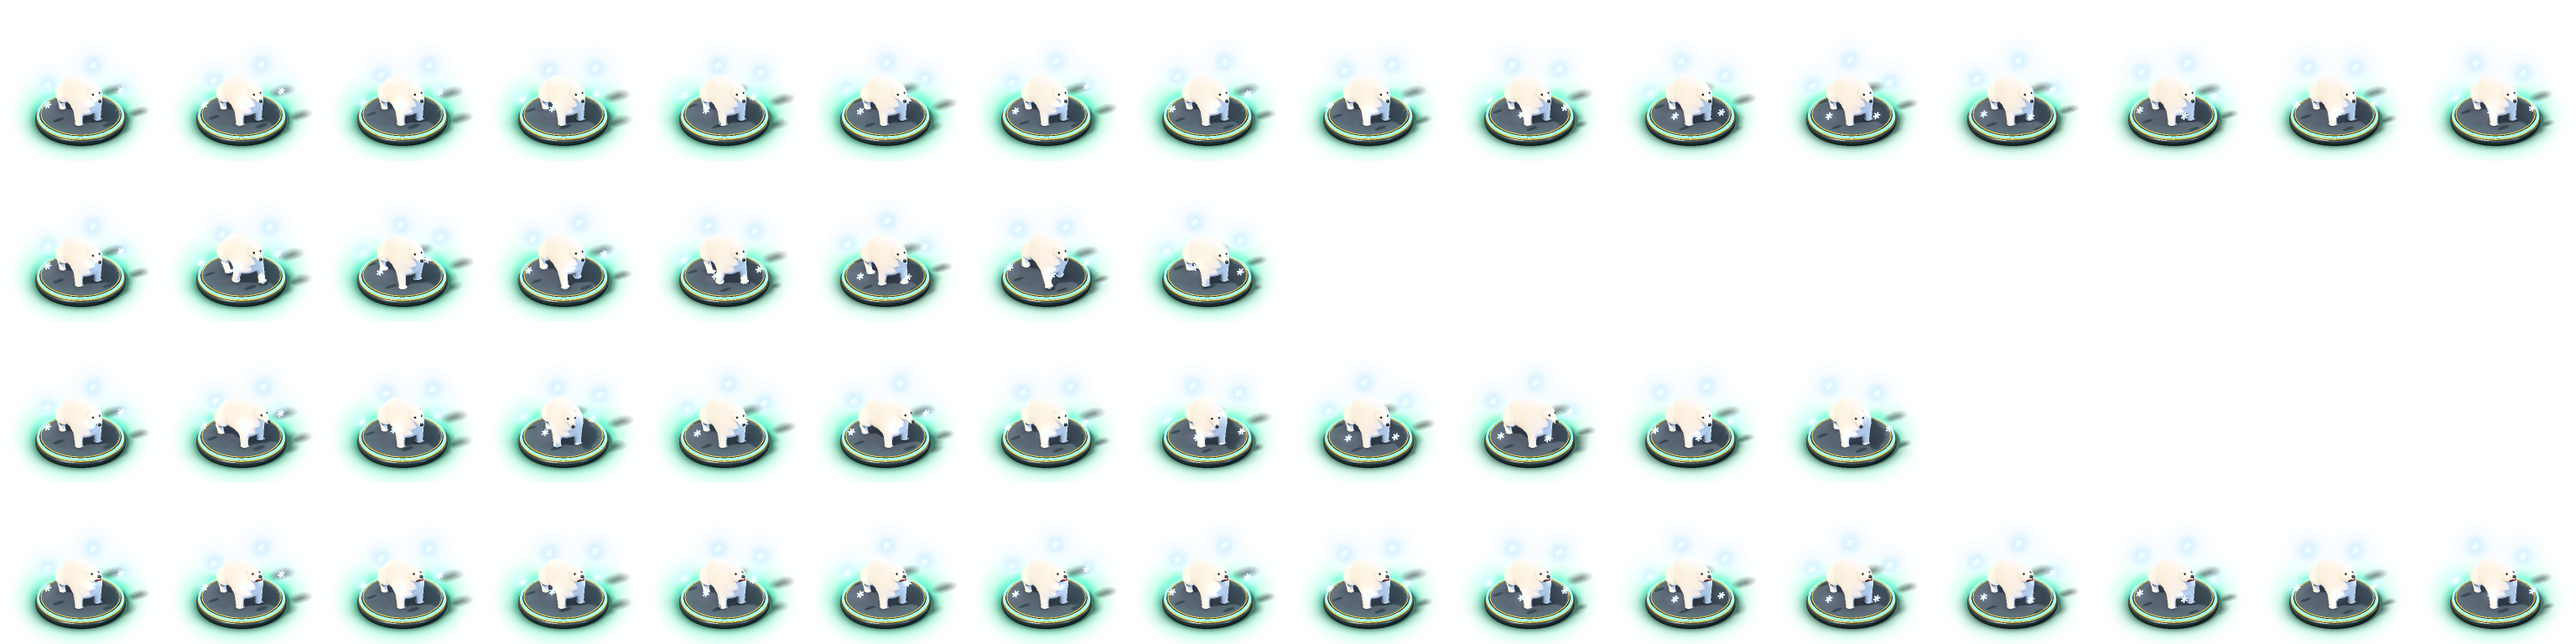
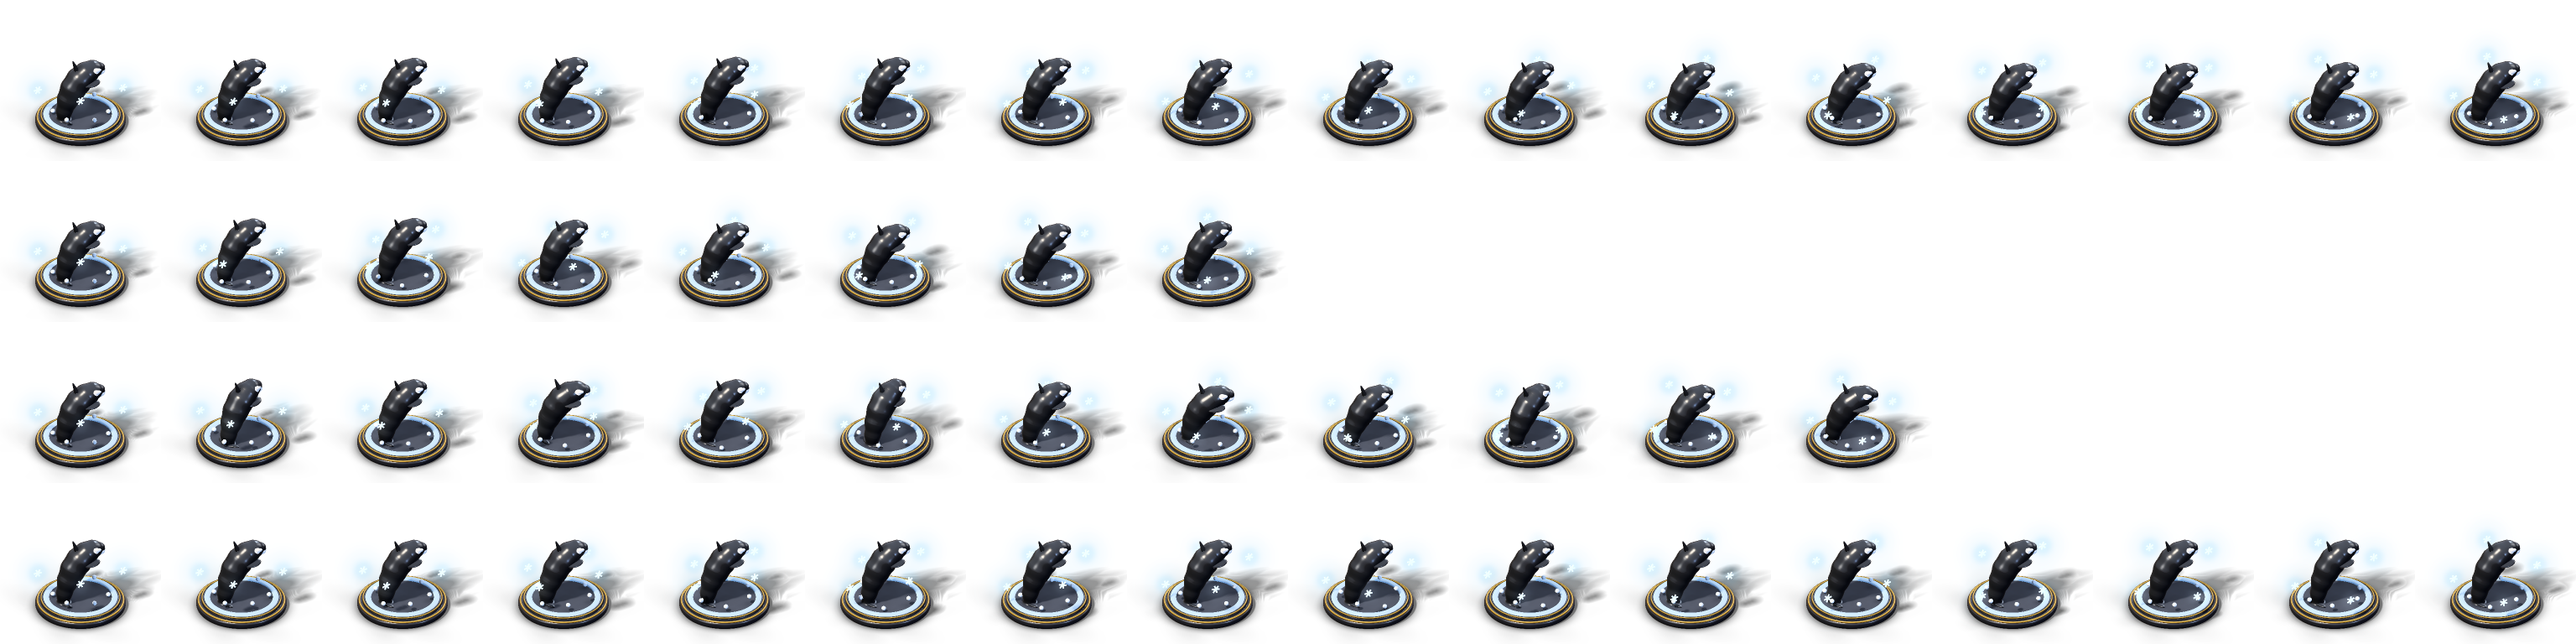
app: the figurines grow with the strength of their AI on the board (Elo 600: 0.85, 2250: 1.22); Themes: the sets of pieces as a grid of chips, the panel shows each player's pieces on the chosen board (Change only for the Robots set), no export button; Banquise: the polar bear before the orca (orca f

diff --git a/doc/src/yolah_app/05_app_looks.html b/doc/src/yolah_app/05_app_looks.html
@@ -196,7 +196,7 @@ int px = int(std::floor((a.in.mouse.x - canvas.x) / cell)), py = int(std::floor(
 <tr><td><code>heroic.py</code></td><td>an adult rig (the head about a sixth of the height, long legs, a muscled torso, jointed arms; the head above the chest, pushed forward by a hunch), curves (<code>bezier</code>, <code>chain</code>), membrane wings, scales; the poses and the weapon frames come from <code>legends.py</code></td></tr>
 <tr><td><code>epic.py</code></td><td>the Légendes cast, one character per AI: goblin thief, orc scout, elf ranger, orc warrior, hill troll, elf knight, orc warlord, war troll, elf archmage, ancient dragon</td></tr>
 <tr><td><code>shonen.py</code>, <code>manga.py</code>, <code>manga_board.py</code></td><td>the Manga set: one character per AI in adult proportions, from a lone wolf to a celestial dragon (Ōkami, Shinobi, Kitsune, Samouraï, Oni, Onmyōji, Raijū, Hōō, Kaigen, Tenryū), more and more spectacular (gems, aura, lightning, floating rocks, a pillar of light), rendered in the toon mode; the board: a sky sanctuary (a marble platform over a sea of clouds, floating islands with waterfalls, a ringed planet), marble and lapis squares, ink impacts</td></tr>
-<tr><td><code>arctic.py</code>, <code>ice_board.py</code></td><td>the Banquise set: one creature per AI, from the seal to the woolly mammoth (penguin, arctic fox, snowy owl, walrus, wolf, a polar explorer, an orca leaping from the ice, a polar bear), frost snowflakes turning around the stronger ones, an aurora ring on the base of the two strongest; the board: an ice floe in the polar night (an aurora, icebergs, floes on the black sea), packed snow and blue glacier ice, holes of black water with floating chips, a frame of ice blocks</td></tr>
+<tr><td><code>arctic.py</code>, <code>ice_board.py</code></td><td>the Banquise set: one creature per AI, from the seal to the woolly mammoth (penguin, arctic fox, snowy owl, walrus, wolf, a polar explorer, a polar bear, an orca leaping from the ice), frost snowflakes turning around the stronger ones, an aurora ring on the base of the two strongest; the board: an ice floe in the polar night (an aurora, icebergs, floes on the black sea), packed snow and blue glacier ice, holes of black water with floating chips, a frame of ice blocks</td></tr>
 <tr><td><code>origami.py</code>, <code>paper_board.py</code></td><td>the Origami set: one folded paper figure per AI, from the paper boat to the dragon (frog, rabbit, fox, butterfly, crane, stag, peacock, lion), every piece a convex polyhedron (<code>sd_hull</code>, flat faces, sharp edges, bounded by a sphere so that shadow rays do not stop short), plain paper, then printed, then gold foil; the board: a cut-paper landscape (layers casting their shadows), cream washi and indigo seigaiha paper, torn holes, a vermilion frame with gold lines</td></tr>
 <tr><td><code>dinos.py</code>, <code>dino_board.py</code></td><td>the Dinosaures set: the growth of a tyrannosaur, one stage per AI (egg, hatching, newborn, chick in down, feathered juvenile, striped adolescent, green young adult hunting, brown adult, grey scarred old male on bones, near-black tyrant king roaring over cracks of lava), built on one theropod rig (<code>theropod</code>: size, head size, legs, down, teeth, jaw, head lowered) seen in three-quarter profile so that the tail goes sideways; the board: a valley at the foot of an erupting volcano, giant ferns, moss and basalt, lava pits, a stone frame with fossil bones</td></tr>
 <tr><td><code>anatomy.py</code>, <code>lab_board.py</code></td><td>the Laboratoire set: a body rebuilt layer by layer, one stage per AI (nerves, + blood vessels and a beating heart, + skeleton, + organs, the muscles, the skin spreading in patches, the finished body, the awakening with veins of light, levitation, a being of white and gold light with a halo; an original design), every layer built on the same joints (<code>joints</code>) so that they fit, a scanner ring on the base of the seven first; the board: a lab in a nuclear plant (the reactor pool in its blue Cherenkov light, a catwalk, screens, hazard stripes), white lab tiles and steel grating, containment wells, a steel frame with hazard stripes</td></tr>

diff --git a/app/yolah_app.cpp b/app/yolah_app.cpp
@@ -1639,6 +1639,7 @@ struct SpriteDef {
     // and its white unit): the id, and the sprite once linked (link_sprites).
     std::string white_id;
     const SpriteDef* white_alt = nullptr;
+    float grow = 1;          // a figurine's size on the board: the stronger its AI, the more imposing (set_growth)
 };
 
 // A set of pieces (assets/sprites/sets.json): what the pieces look like when
@@ -2402,6 +2403,7 @@ void draw_piece(const SpriteDef& sp, int side, V2 c, float r, float lift = 0, do
             if (Art* w = find_art(art->white)) drawn = w;
         float size = 2.5f * r * art->box;      // r = 0.4 square
         float ay = art->ay;
+        if (state_t >= 0) size *= sp.grow;     // on the board, the weak small, the strong imposing
         if (state_t < 0) {   // not on a board (panels, lists, the picker): the whole figurine around c
             size *= 0.72f;
             ay = 0.6f;
@@ -4010,6 +4012,21 @@ struct App {
         for (auto& ps : piece_sets)
             if (ps.id == id) return &ps;
         return nullptr;
+    }
+    // The figurines grow with the strength of their AI (Elo 600 -> 0.85, 2250 -> 1.22):
+    // every cast's figurine and each AI's own sprite. The human keeps 1.
+    void set_growth() {
+        auto g = [](int elo) { return 0.85f + 0.37f * std::clamp((elo - 600) / 1650.0f, 0.0f, 1.0f); };
+        for (auto& ai : roster) {
+            for (auto& ps : piece_sets) {
+                auto it = ps.cast.find(ai.id);
+                if (it != ps.cast.end())
+                    for (auto& sp : sprites)
+                        if (sp.id == it->second) sp.grow = g(ai.elo);
+            }
+            for (auto& sp : sprites)
+                if (sp.id == ai.sprite) sp.grow = g(ai.elo);
+        }
     }
     // The set in use on a board: the one of the settings, or the board's own
     // ("Selon le plateau"), the classic stones when the board has none.
@@ -6385,43 +6402,56 @@ void scene_themes(App& a) {
     // The players and their sprites.
     Box gal{area.right() + 50 * s, 140 * s, a.w - area.right() - 110 * s, a.h - 180 * s};
     a.ui.panel(gal);
-    // The set of pieces: the board's own, or one for every board.
+    // The set of pieces: the board's own, or one for every board (a grid of
+    // chips: a segmented bar is too narrow for all of them).
     a.text.draw(Font::Black, 22 * s, "Jeu de pi\xC3\xA8" "ces", {gal.x + 22 * s, gal.y + 18 * s}, pal::text);
+    float y = gal.y + 56 * s;
     {
         std::vector<std::string> opts = {"Selon le plateau"}, ids = {"auto"};
         for (auto& ps : a.piece_sets) { opts.push_back(ps.name); ids.push_back(ps.id); }
-        int cur = 0;
-        for (size_t i = 0; i < ids.size(); i++)
-            if (ids[i] == a.settings.piece_set) cur = int(i);
-        int sel = a.ui.segmented("pset", {gal.x + 22 * s, gal.y + 54 * s, gal.w - 44 * s, 40 * s}, opts, cur, 14);
-        if (sel != cur) a.settings.piece_set = ids[size_t(sel)];
+        const int pc = 4;
+        const float cw = (gal.w - 44 * s - (pc - 1) * 8 * s) / pc, ch = 34 * s;
+        for (size_t i = 0; i < ids.size(); i++) {
+            Box cb{gal.x + 22 * s + (i % pc) * (cw + 8 * s), y + (i / pc) * (ch + 8 * s), cw, ch};
+            bool on = ids[i] == a.settings.piece_set;
+            if (a.ui.button("pset" + ids[i], cb, opts[i], on ? Style::Primary : Style::Ghost, true, 14)) a.settings.piece_set = ids[i];
+        }
+        y += ((ids.size() + pc - 1) / pc) * (ch + 8 * s) + 6 * s;
         const PieceSet& act = a.active_set(a.theme());
         std::string why = a.settings.piece_set == "auto"
-            ? "Chaque plateau prend son jeu : ici \xC2\xAB " + act.name + " \xC2\xBB (pions classiques pour les plateaux sans jeu propre)."
+            ? "Chaque plateau prend son jeu : ici \xC2\xAB " + act.name + " \xC2\xBB."
             : "Ce jeu sert sur tous les plateaux.";
         if (!act.description.empty()) why += " " + act.description;
-        a.text.paragraph(Font::Regular, 13 * s, why, {gal.x + 22 * s, gal.y + 102 * s, gal.w - 44 * s, 40 * s}, pal::dim);
+        y += a.text.paragraph(Font::Regular, 14 * s, why, {gal.x + 22 * s, y, gal.w - 44 * s, 90 * s}, pal::dim) + 14 * s;
     }
-    a.text.draw(Font::Black, 20 * s, "Sprites des joueurs", {gal.x + 22 * s, gal.y + 150 * s}, pal::text);
-    a.text.paragraph(Font::Regular, 13 * s, strf("Avec le jeu \xC2\xAB Robots \xC2\xBB, chaque joueur garde son sprite. Cliquez sur un joueur pour en choisir un parmi les %zu de la biblioth\xC3\xA8que (un jeu entier aussi, dans \xC2\xAB Jeux de pi\xC3\xA8" "ces \xC2\xBB).", a.sprites.size()),
-                     {gal.x + 22 * s, gal.y + 180 * s, gal.w - 44 * s, 40 * s}, pal::dim);
+    // The pieces of each player on the chosen board, as they will be played.
+    const PieceSet& act = a.active_set(a.theme());
+    a.text.draw(Font::Black, 20 * s, "Les pi\xC3\xA8" "ces sur ce plateau", {gal.x + 22 * s, y}, pal::text);
+    y += 34 * s;
+    if (act.players) {
+        a.text.paragraph(Font::Regular, 13 * s, "Avec ce jeu, chaque joueur garde son sprite : cliquez sur un joueur pour en choisir un autre.",
+                         {gal.x + 22 * s, y, gal.w - 44 * s, 40 * s}, pal::dim);
+        y += 26 * s;
+    }
     std::vector<std::pair<std::string, std::string>> players = {{"human", "Joueur humain"}};
     for (auto& ai : a.roster) players.push_back({ai.id, ai.name});
-    float top = gal.y + 232 * s, rh = std::min(60.0f * s, (gal.h - 320 * s) / players.size());
+    float rh = std::min(64.0f * s, (gal.bottom() - 14 * s - y) / players.size());
     for (size_t i = 0; i < players.size(); i++) {
         const auto& [id, name] = players[i];
-        const SpriteDef& sp = a.player_sprite(id);
-        Box r{gal.x + 12 * s, top + i * rh, gal.w - 24 * s, rh - 4 * s};
-        bool h = a.ui.hover(r);
+        auto ub = a.board_units(a.theme(), BLACK, id), uw = a.board_units(a.theme(), WHITE, id);
+        Box r{gal.x + 12 * s, y + i * rh, gal.w - 24 * s, rh - 4 * s};
+        bool h = act.players && a.ui.hover(r);
         if (h) a.ui.hovering = true;
         float k = a.ui.anim("pl" + id, h);
         draw::round_box(r, 10 * s, with_alpha(hex(0xffffff), 0.02f + 0.07f * k));
-        float pr = rh * 0.36f;
-        draw_piece(sp, BLACK, {r.x + 14 * s + pr, r.center().y}, pr, 0.2f * k, a.time, 1, id == "human");
-        draw_piece(sp, WHITE, {r.x + 22 * s + 3 * pr, r.center().y}, pr, 0.2f * k, a.time, 1, id == "human");
+        float pr = rh * 0.40f;
+        draw_piece(*ub.front(), BLACK, {r.x + 14 * s + pr, r.center().y}, pr, 0.2f * k, a.time, 1, id == "human");
+        draw_piece(*uw.front(), WHITE, {r.x + 22 * s + 3 * pr, r.center().y}, pr, 0.2f * k, a.time, 1, id == "human");
         float tx = r.x + 40 * s + 4 * pr;
         a.text.draw(Font::Bold, 17 * s, name, {tx, r.center().y - 20 * s}, pal::text);
-        a.text.draw(Font::Regular, 13 * s, "sprite : " + sp.name, {tx, r.center().y + 2 * s}, pal::dim);
+        a.text.draw(Font::Regular, 13 * s, ub.front()->name, {tx, r.center().y + 2 * s}, pal::dim);
+        if (!act.players) continue;
+        const SpriteDef& sp = a.player_sprite(id);
         a.text.draw(Font::Bold, 15 * s, "Changer \xE2\x86\x92", {r.right() - 12 * s, r.center().y - 9 * s}, mix(pal::faint, a.theme().accent, k), Align::Right);
         if (h && a.in.released) {
             std::string pid = id, pname = name;
@@ -6431,8 +6461,6 @@ void scene_themes(App& a) {
             });
         }
     }
-    if (a.ui.button("export", {gal.x + 22 * s, gal.bottom() - 74 * s, gal.w - 44 * s, 52 * s}, "Exporter tous les sprites en PNG", Style::Primary))
-        a.notify(export_sprites(a));
     a.ui.blocked = false;
     if (picking) sprite_picker(a);
 }
@@ -8648,6 +8676,7 @@ SDL_AppResult SDL_AppInit(void** appstate, int argc, char* argv[]) {
     load_all_arts();
     register_art_sprites(a->sprites);
     a->roster = load_roster(g_paths.assets / "ai_roster.json");
+    a->set_growth();
     a->courses.load(g_paths.assets / "courses" / "ai_courses.json");
     {
         json j = load_json(g_paths.assets / "sprites" / "assignments.json");

diff --git a/app/tools/sprites/arctic.py b/app/tools/sprites/arctic.py
@@ -354,7 +354,7 @@ SCALE = {"random": 1.3, "beginner": 1.2, "monte_carlo": 1.3, "mcts": 1.2, "basic
          "features": 1.25, "resnet": 1.15, "dev": 1.05, "alphazero": 1.05}
 CAST = {"random": ("Phoque", seal), "beginner": ("Manchot empereur", penguin), "monte_carlo": ("Renard polaire", arctic_fox),
         "mcts": ("Harfang des neiges", snowy_owl), "basic_minmax": ("Morse", walrus), "nnue193": ("Loup arctique", arctic_wolf),
-        "features": ("Exploratrice polaire", explorer), "resnet": ("Orque", orca), "dev": ("Ours blanc", polar_bear),
+        "features": ("Exploratrice polaire", explorer), "resnet": ("Ours blanc", polar_bear), "dev": ("Orque", orca),
         "alphazero": ("Mammouth laineux", mammoth)}
 ARCTIC = {"ice_" + k: f for k, (_, f) in CAST.items()}
 NAMES = {"ice_" + k: n for k, (n, _) in CAST.items()}
